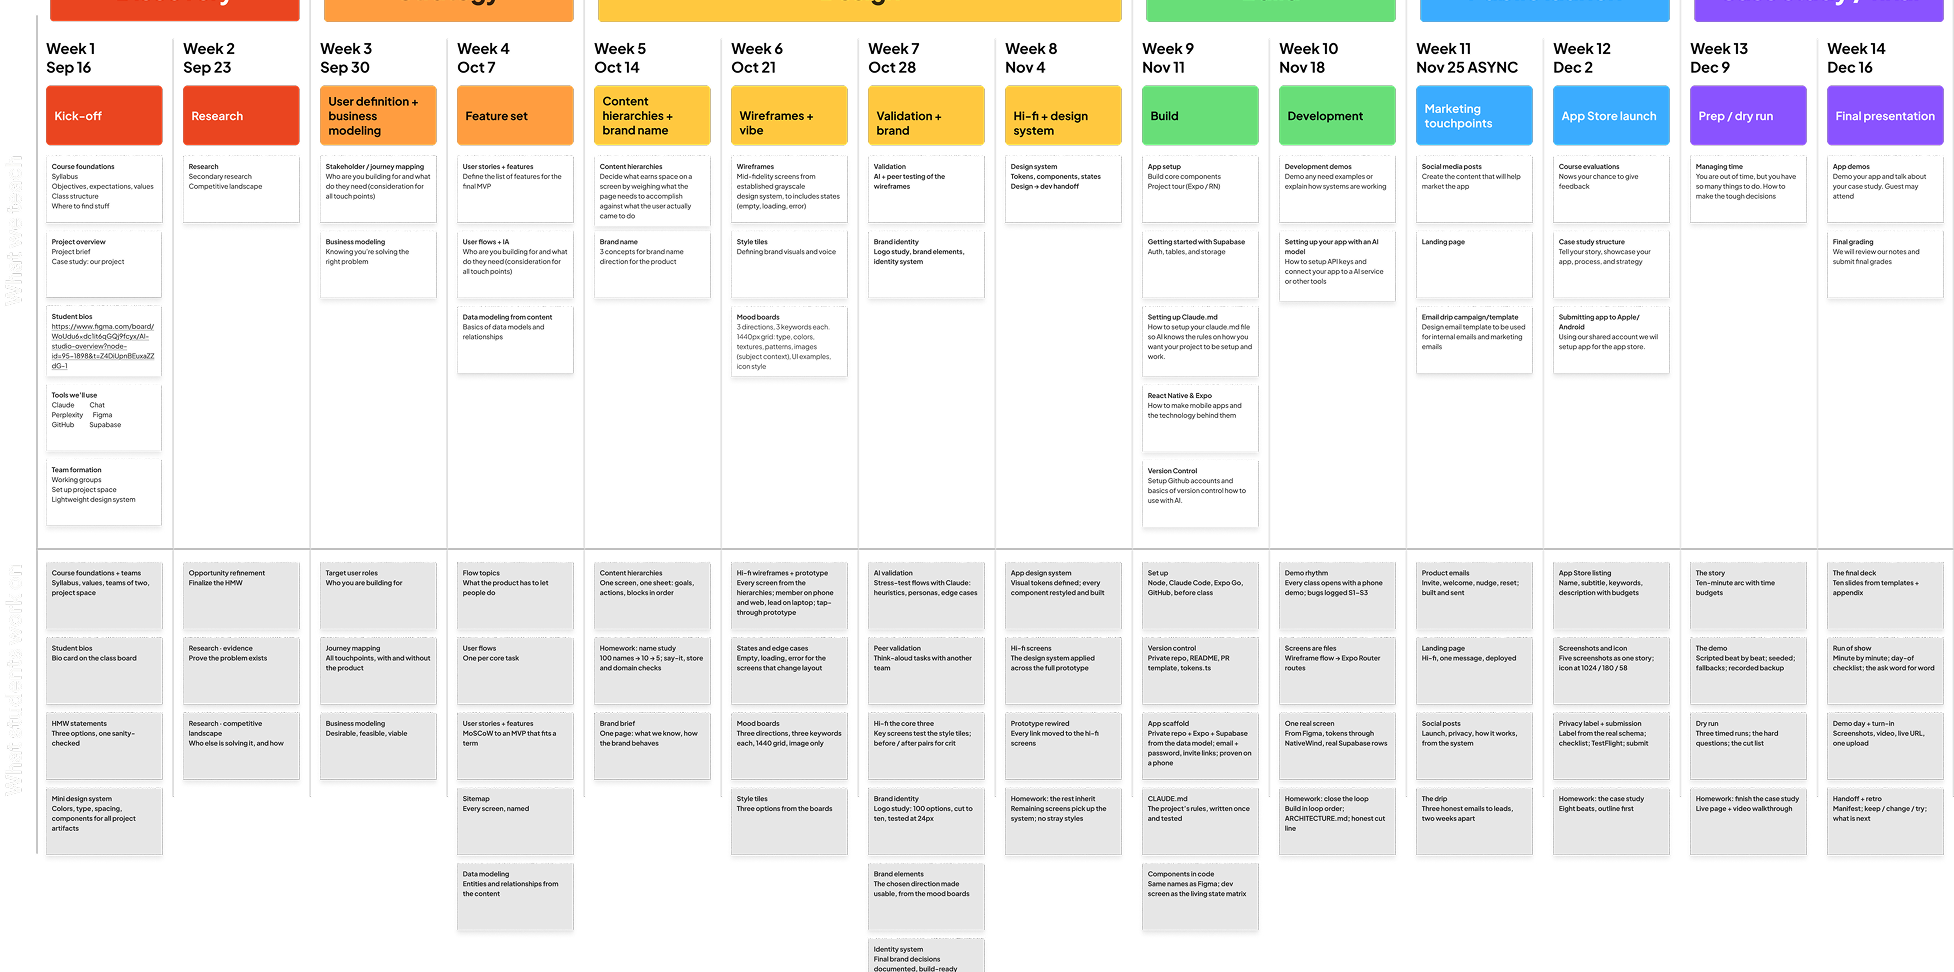
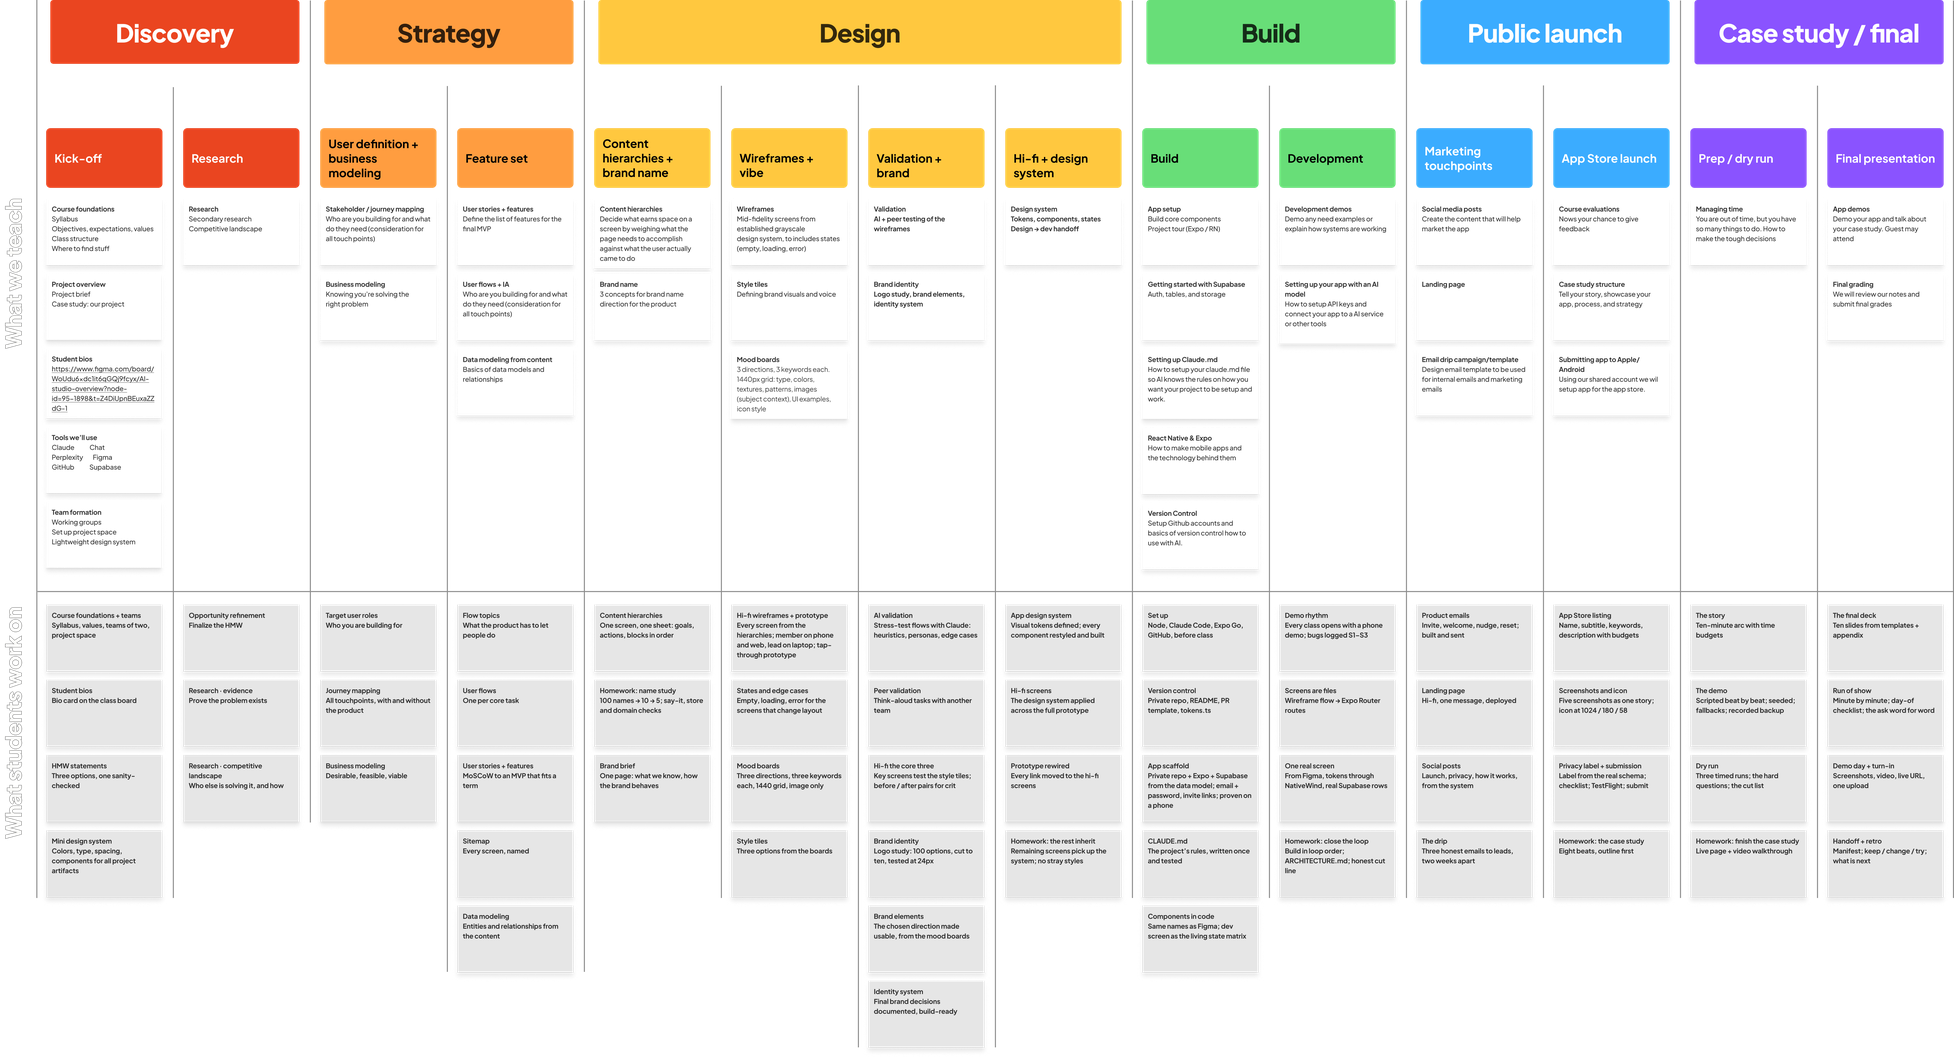
Alteryx: final artifact art and a better kick-off frame
Swap in the full-resolution IRONMAN hero and re-export the AI product
studio blueprint, whose phase headers were cropped. Rebuild the kick-off
kit around "prep for next steps" instead of the stakeholder frame, so the
sample shows how activities get chosen rather than a form to fill in.

Claude-Session: https://claude.ai/code/session_01Sspt1akuCnxV536QiGKWNR

diff --git a/alteryx/index.html b/alteryx/index.html
@@ -185,9 +185,13 @@ h1 .a{color:var(--red)}
 
 /* kick-off kit */
 .kit{display:grid;grid-template-columns:repeat(3,1fr);gap:16px;align-items:stretch}
+.kit.kit2{grid-template-columns:repeat(2,1fr);gap:20px}
+.kitcol .num{display:grid;place-items:center;width:40px;height:40px;border-radius:50%;background:var(--red);color:#fff;font:800 17px/1 var(--font);margin-bottom:16px}
+.intro{font:800 clamp(22px,2.6vw,32px)/1.1 var(--font);letter-spacing:-.04em;color:var(--paper);margin:0 0 22px}
 .kitcol{background:var(--panel);padding:18px}
 .kitcol .k{font:600 10.5px/1.4 var(--cond);letter-spacing:.16em;text-transform:uppercase;color:var(--dim);display:block;margin-bottom:10px}
-.kitcol p{font:400 12.5px/1.46 var(--font);color:var(--paper);margin:0 0 20px;max-width:none}
+.kitcol p{font:400 12.5px/1.46 var(--font);color:var(--paper);margin:0 0 12px;max-width:none}
+.kitcol p:last-child{margin-bottom:0}
 .stickies{display:grid;grid-template-columns:1fr 1fr;gap:10px}
 .stickies i{display:block;height:58px;border-radius:2px}
 .owner{display:flex;align-items:center;gap:12px;margin-top:22px}
@@ -246,7 +250,7 @@ footer{border-top:2px solid var(--rule);background:#000;padding:56px 0 0;overflo
   .fw-def,.head .def{white-space:normal}
   .vals{grid-template-columns:repeat(2,1fr)}
   .pillars{grid-template-columns:1fr 1fr}
-  .kit{grid-template-columns:1fr}
+  .kit,.kit.kit2{grid-template-columns:1fr}
   .tabrow{flex-wrap:nowrap;overflow-x:auto;overscroll-behavior-x:contain;scrollbar-width:none;-webkit-overflow-scrolling:touch}
   .tabrow::-webkit-scrollbar{display:none}
   .tabrow button{flex:0 0 auto}
@@ -467,10 +471,10 @@ Director</span><span class="ul"></span></th>
         <button role="tab" id="t-s3" aria-controls="p-s3" aria-selected="false" tabindex="-1">FS Central</button>
       </div>
       <div class="panel" id="p-s1" role="tabpanel" aria-labelledby="t-s1">
-        <figure class="shot" style="margin:0"><img src="images/ai-studio-blueprint.png" alt="AI product studio blueprint: fourteen weeks across seven phases, with what we teach and what students work on." width="977" height="486" loading="lazy"></figure>
+        <figure class="shot" style="margin:0"><img src="images/ai-studio-blueprint.png" alt="AI product studio blueprint: fourteen weeks across seven phases, with what we teach and what students work on." width="977" height="528" loading="lazy"></figure>
       </div>
       <div class="panel" id="p-s2" role="tabpanel" aria-labelledby="t-s2" hidden>
-        <figure class="shot" style="margin:0"><img src="images/ironman-concept.png" alt="IRONMAN.com homepage hero from the round 3 visual exploration." width="977" height="485" loading="lazy"></figure>
+        <figure class="shot" style="margin:0"><img src="images/ironman-concept.png" alt="IRONMAN.com homepage hero from the round 3 visual exploration." width="977" height="488" loading="lazy"></figure>
       </div>
       <div class="panel" id="p-s3" role="tabpanel" aria-labelledby="t-s3" hidden>
         <figure class="shot" style="margin:0"><img src="images/fs-central.png" alt="FS Central: tiled screens of the internal collateral search product." width="977" height="325" loading="lazy"></figure>
@@ -568,26 +572,23 @@ Director</span><span class="ul"></span></th>
 
       <div class="panel" id="p-r3" role="tabpanel" aria-labelledby="t-r3" hidden>
         <div class="art">
-          <span class="cap">Kick-off kit / sample template: project stakeholders / one of 30 frames</span>
-          <p class="intro" style="font-size:32px;font-weight:800;letter-spacing:-.04em;line-height:1.1;margin-bottom:22px">Project stakeholders</p>
-          <div class="kit">
+          <span class="cap">Kick-off kit / sample template: prep for next steps / one of 30 frames</span>
+          <p class="intro">Prep for next steps</p>
+          <div class="kit kit2">
             <div class="kitcol">
-              <span class="k">Working team</span>
-              <p>Who here needs to be part of ongoing discussions &amp; progress meetings?</p>
-              <div class="stickies"><i style="background:var(--teal)"></i><i style="background:var(--teal)"></i><i style="background:var(--teal)"></i><i style="background:var(--teal)"></i></div>
+              <span class="num">1</span>
+              <span class="k">Journey mapping</span>
+              <p>We want to get a full picture of all the steps a customer, and recipient, go through for a purchase.</p>
+              <p>Make sure we have all the right people in the room to provide insight into the journey.</p>
             </div>
             <div class="kitcol">
-              <span class="k">Key stakeholders</span>
-              <p>Does anyone else need to be involved for collaboration like workshops or attend research readouts?</p>
-              <div class="stickies"><i style="background:#a6ccf5"></i><i style="background:#a6ccf5"></i><i style="background:#a6ccf5"></i><i style="background:#a6ccf5"></i></div>
-            </div>
-            <div class="kitcol">
-              <span class="k">Leadership</span>
-              <p>Are there any higher-level leaders needed to approve large milestones like the end of discovery or design direction?</p>
-              <div class="stickies"><i style="background:var(--pink)"></i><i style="background:var(--pink)"></i><i style="background:var(--pink)"></i><i style="background:var(--pink)"></i></div>
+              <span class="num">2</span>
+              <span class="k">Look + feel</span>
+              <p>Understand where the current look and feel of the site is and where you want to go.</p>
+              <p>Start thinking about the direction you'd like to take for visuals.</p>
             </div>
           </div>
-          <div class="owner"><span class="sq"></span><span>Project management runs this one</span></div>
+          <div class="owner"><span class="sq"></span><span>Every activity names what we need to learn, and what the client has to bring</span></div>
         </div>
       </div>
     </div>
